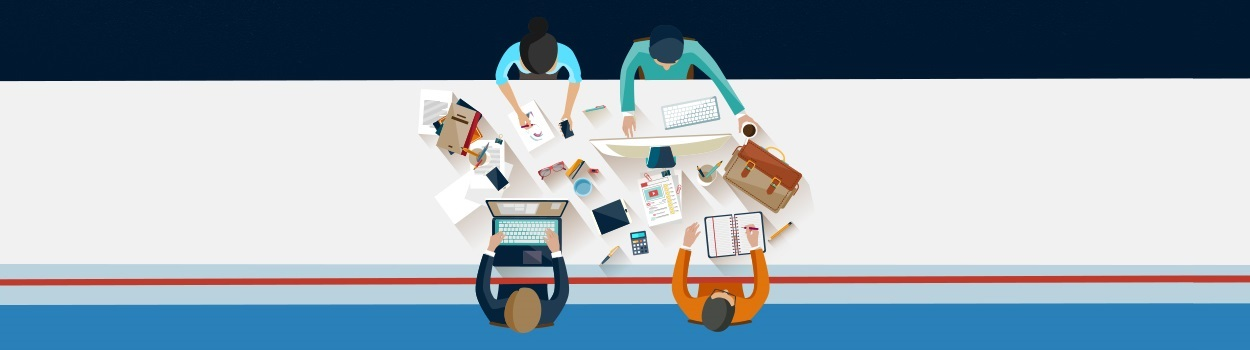
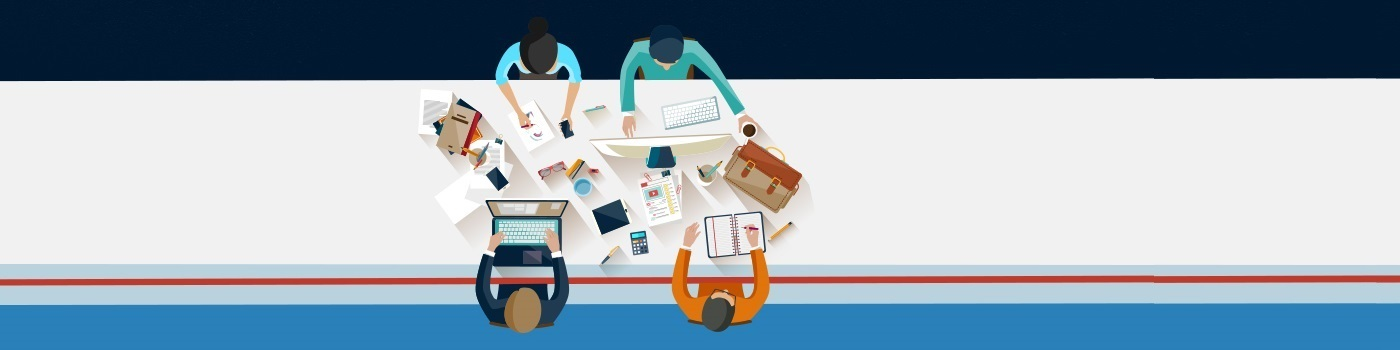
Adjust width of the page

Changed region(s): [[0.2808, 0.0571, 0.6552, 0.9714], [0.7488, 0.7714, 0.8112, 0.8], [0.6552, 0.2, 0.7176, 0.2286]]

diff --git a/sites/all/themes/debuga_theme1/css/theme1.css b/sites/all/themes/debuga_theme1/css/theme1.css
@@ -1,30 +1,30 @@
 #title-wrapper{display:none;}
 #first-sidebar{display:none;}
-#second-sidebar{padding:0;background-image: url("/sites/all/themes/debuga_theme1/img/A_bg.jpg");background-repeat: no-repeat;} 
+#second-sidebar{padding:0;background-image: url("/sites/all/themes/debuga_theme1/img/A_bg.jpg");background-repeat: no-repeat; width:100%;} 
 /*Area A*/
 /*first row*/
 #mini-panel-a_1{width:100%;height:200px;padding-left:120px; margin-top:35px;}
 #mini-panel-a_1 > div> div{margin:5px;}
 #mini-panel-a_1 > div{display:inline;height:200px;}
-#mini-panel-a_1 > div.panel-panel.panel-col-first{width:40%;}
-#mini-panel-a_1 > div.panel-panel.panel-col{width:19.167%}
-#mini-panel-a_1 > div.panel-panel.panel-col-last{width:19.167%}
+#mini-panel-a_1 > div.panel-panel.panel-col-first{width:480px;}
+#mini-panel-a_1 > div.panel-panel.panel-col{width:230px;}
+#mini-panel-a_1 > div.panel-panel.panel-col-last{width:230px;}
 
 /*second row*/
 #mini-panel-a_2{width:100%;height:200px;padding-left:120px; margin-top:10px;}
 #mini-panel-a_2 > div> div{margin:5px;}
 #mini-panel-a_2 > div{display:inline;height:200px;}
-#mini-panel-a_2 > div.panel-panel.panel-col-first{width:19.167%;}
-#mini-panel-a_2 > div.panel-panel.panel-col{width:40%}
-#mini-panel-a_2 > div.panel-panel.panel-col-last{width:19.167%}
+#mini-panel-a_2 > div.panel-panel.panel-col-first{width:230px;}
+#mini-panel-a_2 > div.panel-panel.panel-col{width:480px;}
+#mini-panel-a_2 > div.panel-panel.panel-col-last{width:230px;}
 
 /*second row*/
 #mini-panel-a_3{width:100%;height:200px;padding-left:120px; margin-top:10px;}
 #mini-panel-a_3 > div> div{margin:5px;}
 #mini-panel-a_3 > div{display:inline;height:200px;}
-#mini-panel-a_3 > div.panel-panel.panel-col-first{width:19.167%;}
-#mini-panel-a_3 > div.panel-panel.panel-col{width:19.167%}
-#mini-panel-a_3 > div.panel-panel.panel-col-last{width:40%}
+#mini-panel-a_3 > div.panel-panel.panel-col-first{width:230px;}
+#mini-panel-a_3 > div.panel-panel.panel-col{width:230px;}
+#mini-panel-a_3 > div.panel-panel.panel-col-last{width:480px;}
 
 /*Area B*/
 #block-panels-mini-b{top:30px;}
@@ -33,10 +33,11 @@
 #block-panels-mini-c{background:#2A80B9;padding:0;background-image: url("/sites/all/themes/debuga_theme1/img/c_bg.jpg");background-repeat: no-repeat; color:white;height:435px;}
 #mini-panel-c > div.panel-panel.panel-col-top{height:90px;padding-top:35px;}
 #mini-panel-c > div:nth-child(2) > div > div > div > div > h1,h3{margin:0;}
-#mini-panel-c > div:nth-child(2) > div.panel-panel.panel-col-first{width: 41.67%; padding:15px 0 25px 7.8%}
-#mini-panel-c > div:nth-child(2) > div.panel-panel.panel-col-last{width: 35.2%; padding: 15px 0 0 0; }
-#mini-panel-c > div:nth-child(4) > div.panel-panel.panel-col-first{width: 41.67%; padding:0 0 0 7.8%}
-#mini-panel-c > div:nth-child(4) > div.panel-panel.panel-col-last{width: 35.2%; padding: 0}
+#mini-panel-c > div:nth-child(2) > div.panel-panel.panel-col-first{width: 500px; padding:15px 0 25px 100px}
+#mini-panel-c > div:nth-child(2) > div.panel-panel.panel-col-last{width: 435px; padding: 15px 0 0 0; }
+#mini-panel-c > div:nth-child(4) > div.panel-panel.panel-col-first{width: 500px; padding:0 0 0 100px}
+#mini-panel-c > div:nth-child(4) > div.panel-panel.panel-col-last{width: 450px; padding: 0}
+#mini-panel-c > div:nth-child(4) > div.panel-panel.panel-col-last > div{margin:0}
 
 /*Structure:
 -#site-footer
